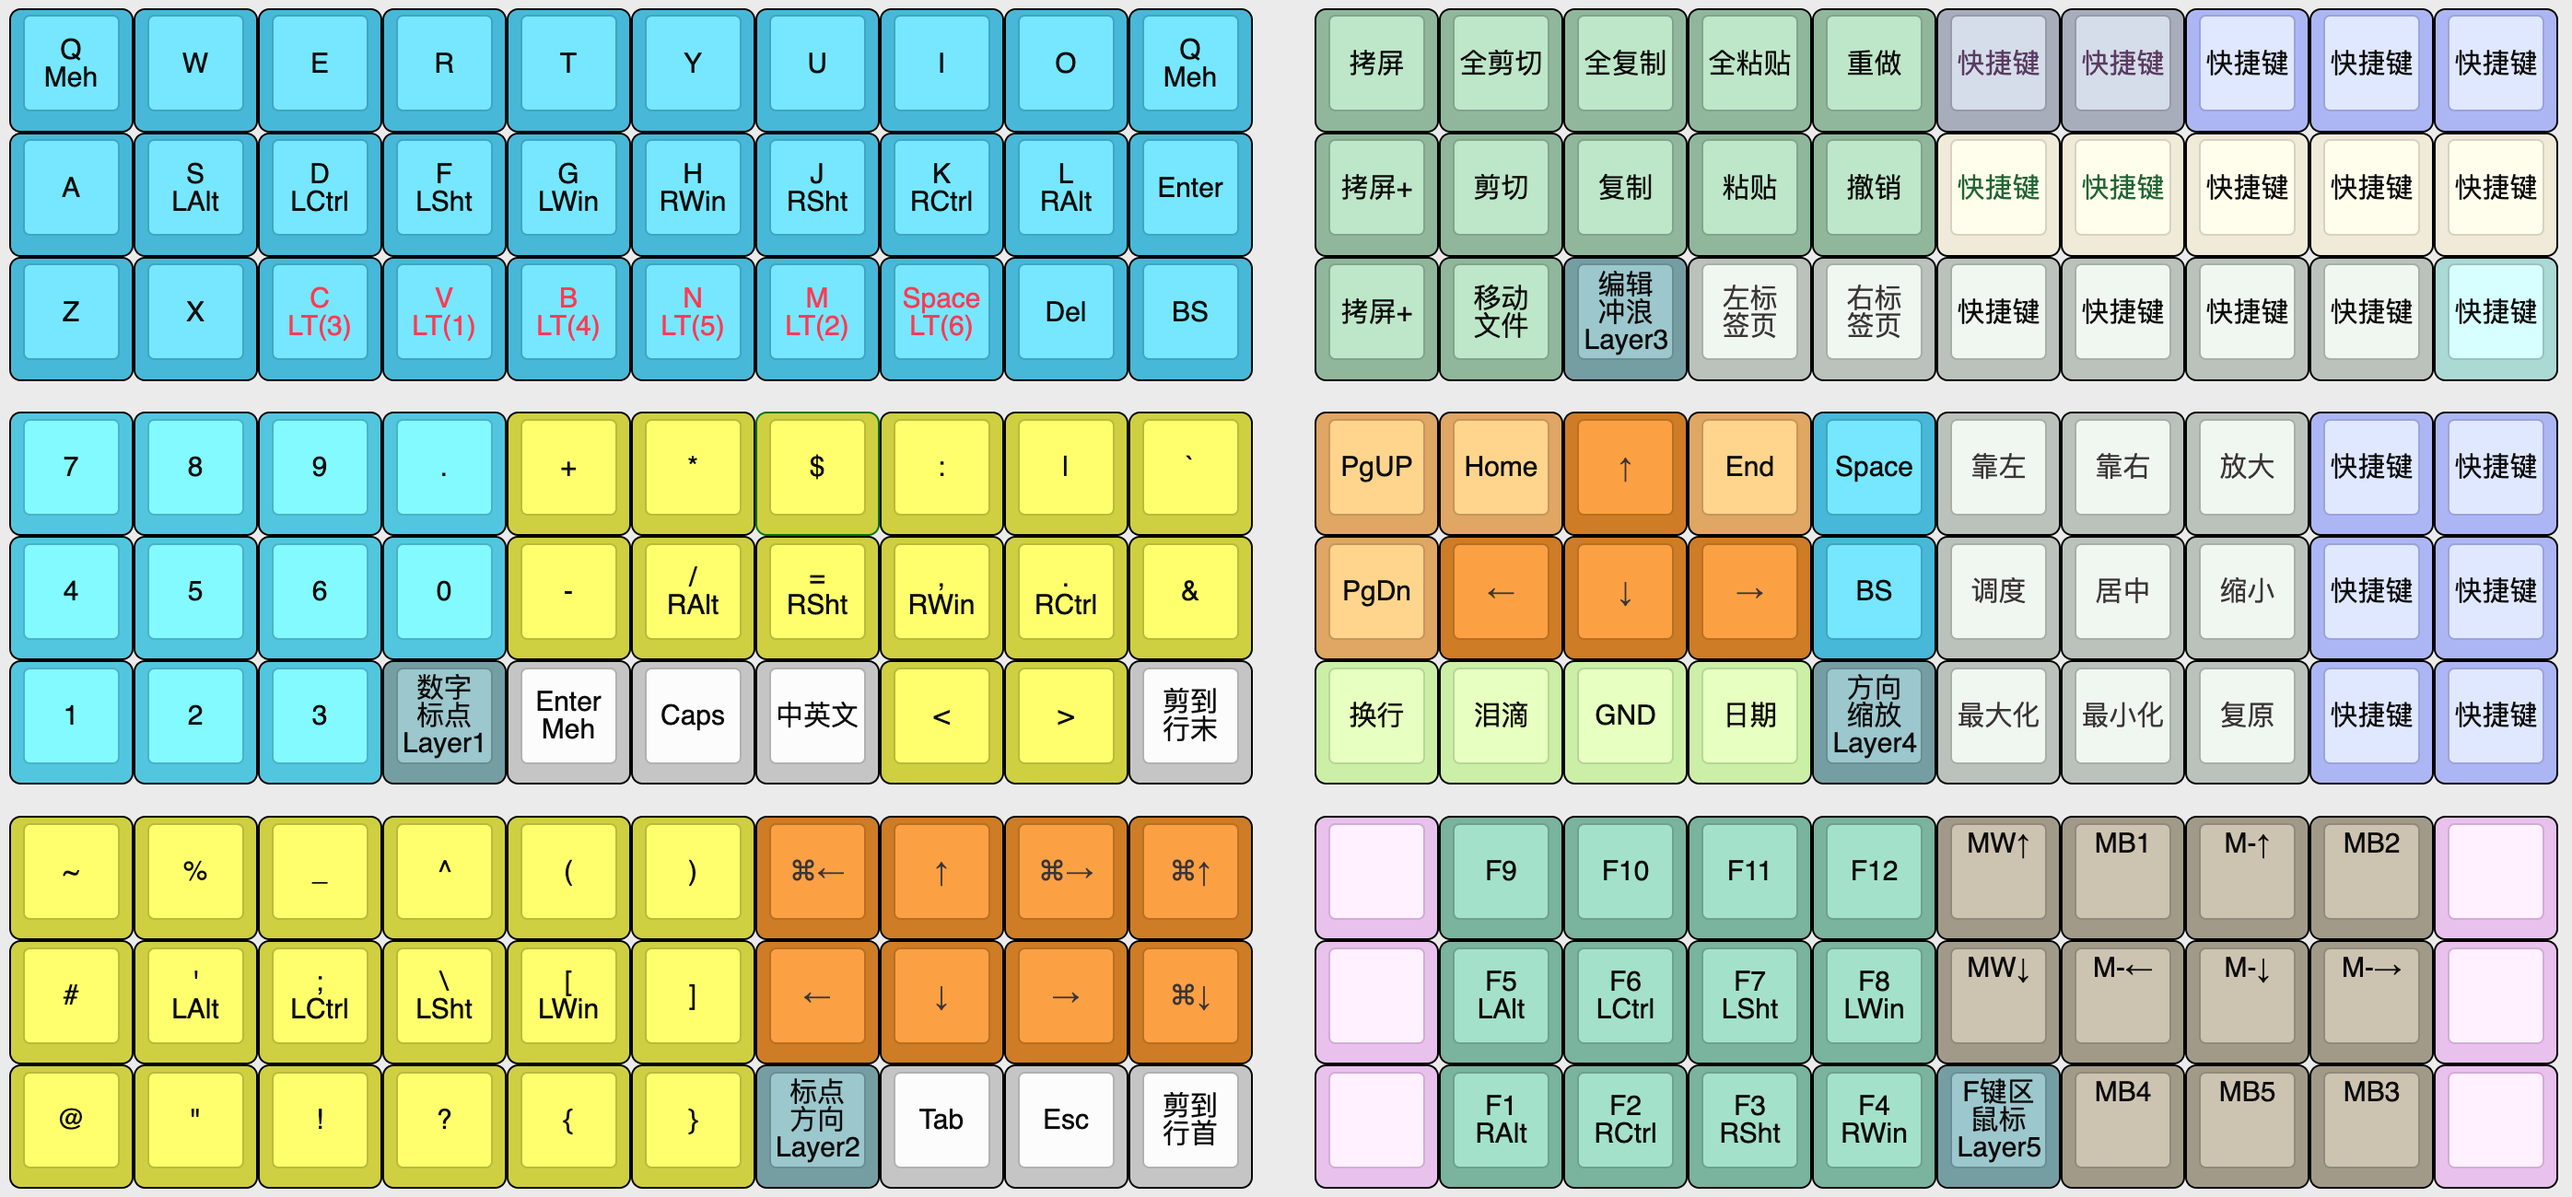
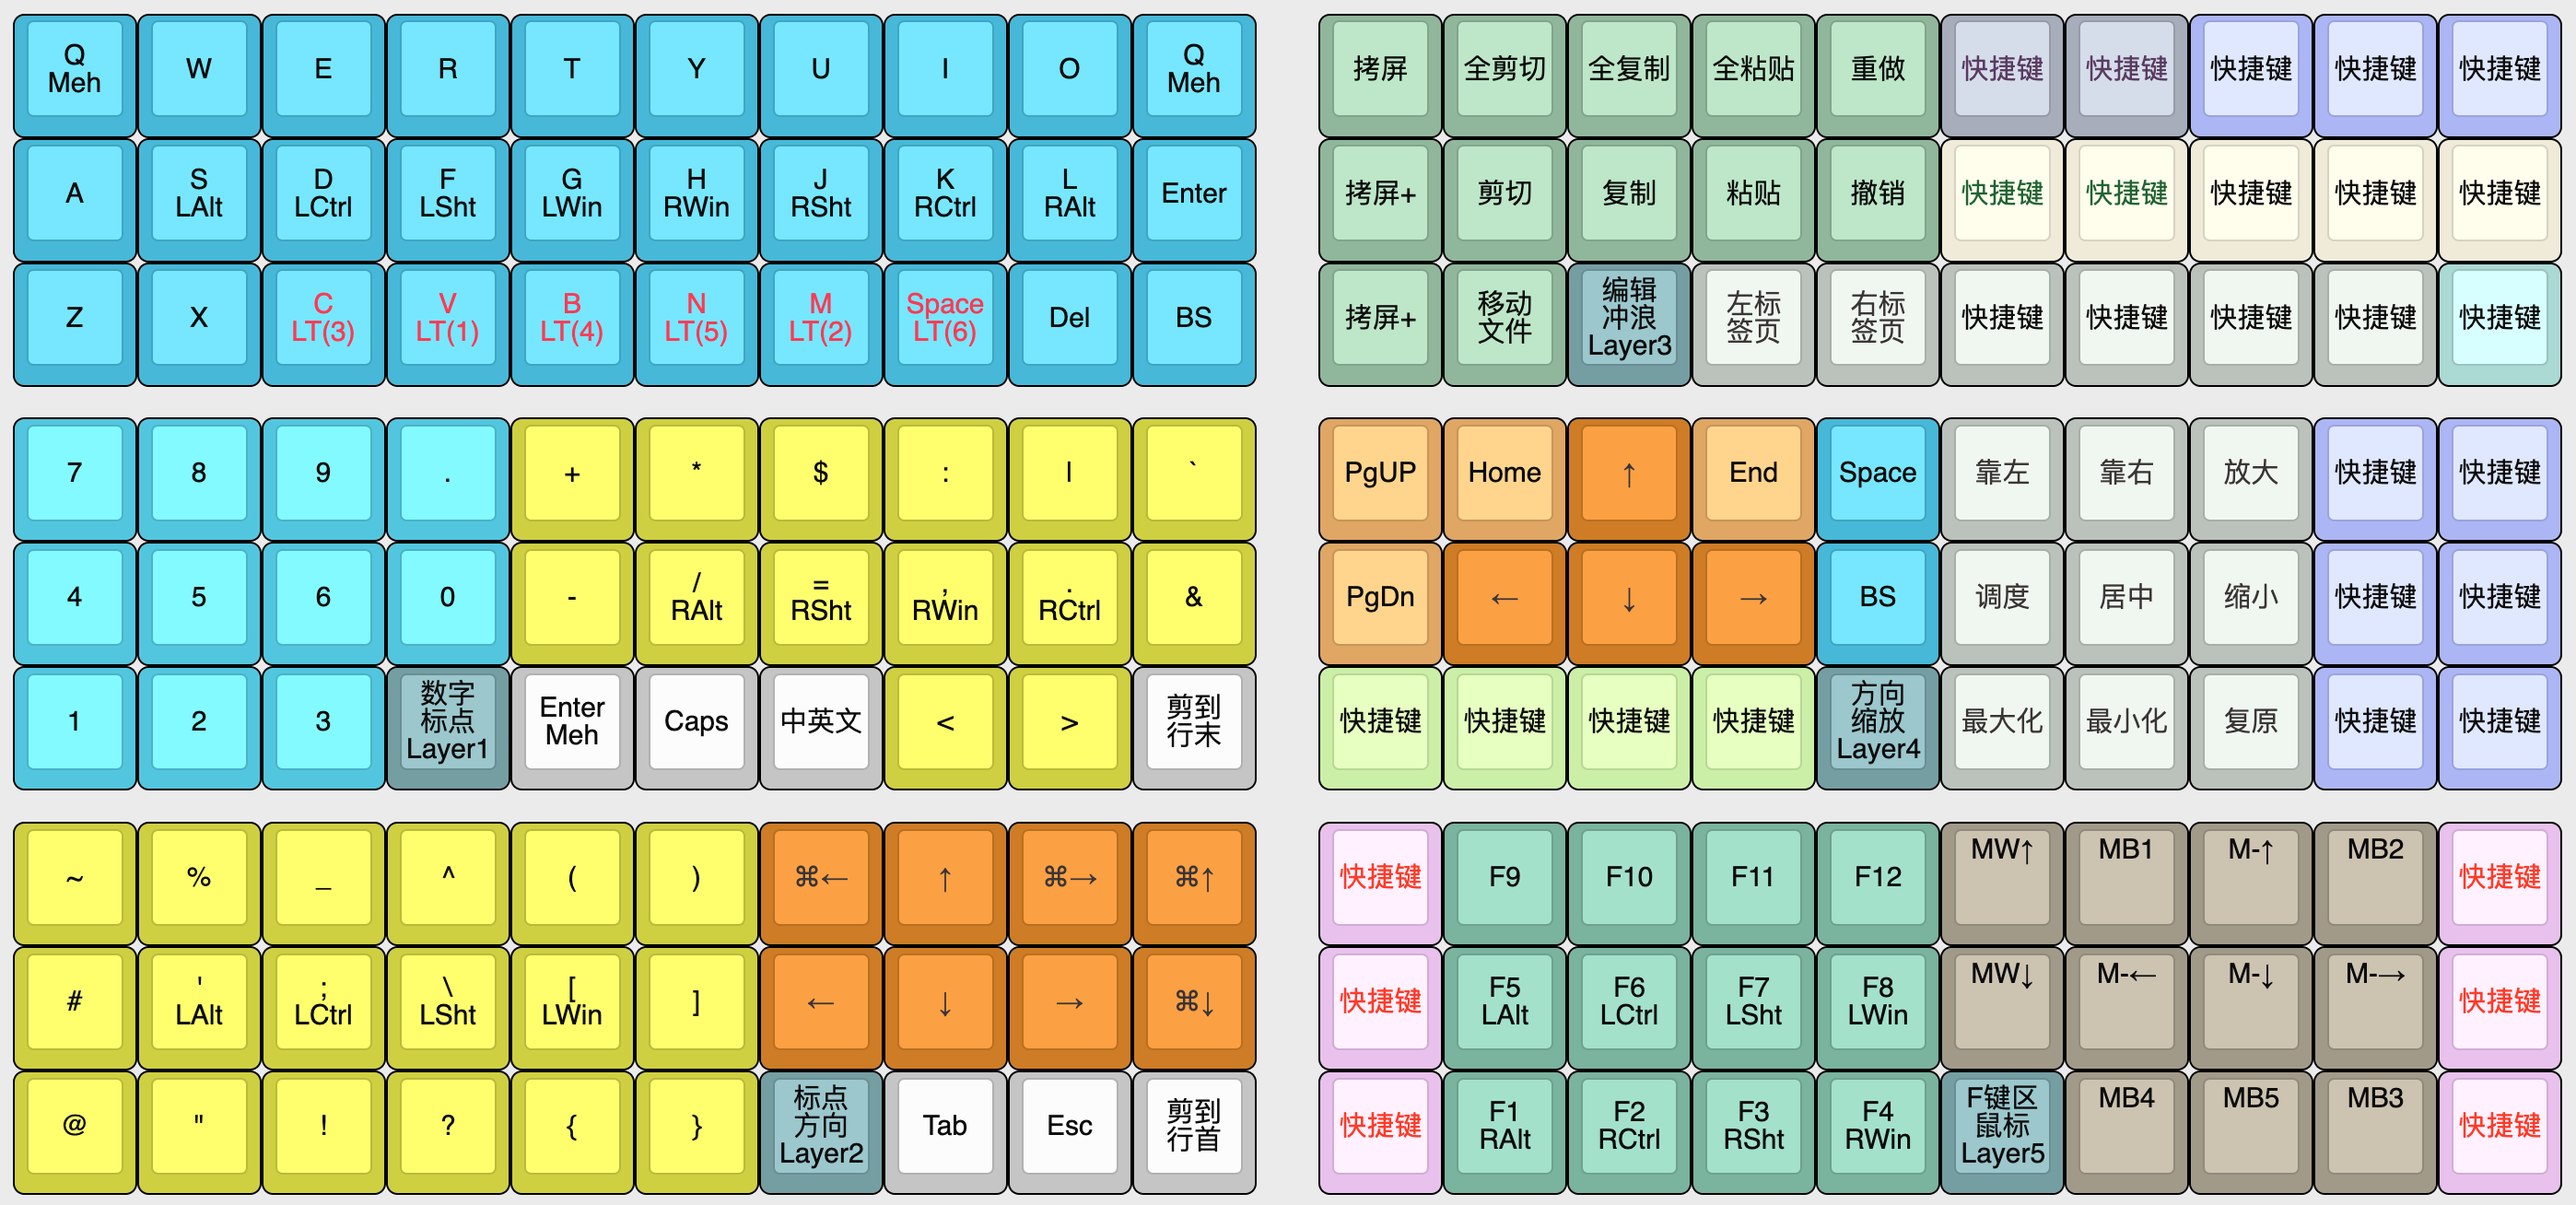
Update 2026-08-19 10:29

diff --git a/p30s/vial-setup/readme.md b/p30s/vial-setup/readme.md
@@ -1,4 +1,16 @@
-P30.vil和A30.vil都是30键键盘的vial配置文件。
-P30.vil是键盘内置的默认配置，修饰键在下面一行。
-A30.vil修饰键改为中间一行，切层键都放到下面一行，更适合设置更多层的使用。
+键位配置文件供参考，请根据自己习惯修改。
+
+P30.vil和A30.vil都是30键键盘的vial配置文件，P30.vil是键盘内置的出厂默认配置。
+
+P30修饰键在下面一行，兼顾传统习惯，主要切层由拇指自然下压完成。
+
+A30修饰键改为中间一行，所有切层键都放到下面一行。
+
+- 如果追求极致效率的系统化设计，建议采用A30：
+- 1行超级修饰键：可统一设置MEH、HYPR、LAG等组合修饰键，将复杂的快捷键降维成“双键触发”，实现操作的高效与自动化。
+- 2行对称修饰键：对称设置，全面覆盖所有字母组合快捷键,打字过程手指零移动。
+- 3行拇指切层键：将拇指区打造为功能总控台，无论增加多少功能层，操作逻辑始终一致，极大降低了认知负荷。
+- 扩展性极强：模块化设计使其能轻松应对复杂工作流，上限极高。
+- 只要跨越初期的心理门槛，A30在复杂场景下的体验与效率拥有绝对优势。
+
 P30的快捷键是win风格，A30是mac风格，根据需要自行更改。
